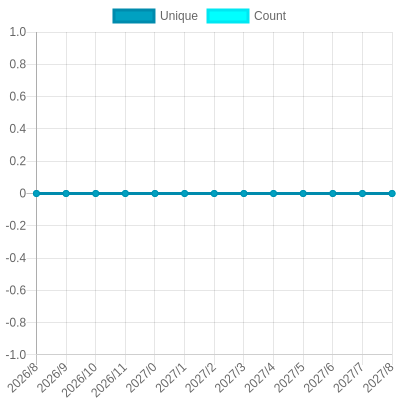
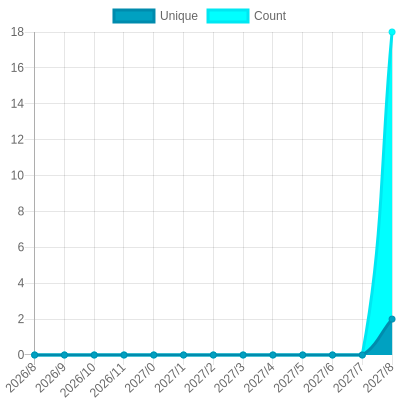
Update views

diff --git a/readme/1259419142/year.md b/readme/1259419142/year.md
@@ -23,10 +23,10 @@
 			<code>2026/9/1</code>
 		</td>
 		<td>
-			<code>0</code>
+			<code>2</code>
 		</td>
 		<td>
-			<code>0</code>
+			<code>18</code>
 		</td>
 	</tr>
 	<tr>
@@ -164,7 +164,7 @@
 </table>
 
 </details>
-<small><i>Last updated on 2026/9/3 3:51 AM UTC</i></small>
+<small><i>Last updated on 2026/9/3 10:57 AM UTC</i></small>
 
 ## ✂Copy and 📋 Paste
 ### SVG Badge

diff --git a/README.md b/README.md
@@ -37,7 +37,7 @@ The project created and maintained by [gayanvoice](https://github.com/gayanvoice
 	</tr>
 </table>
 
-<small><i>Last updated on 2026/9/3 3:51 AM UTC</i></small>
+<small><i>Last updated on 2026/9/3 10:58 AM UTC</i></small>
 
 ## ✂Copy and 📋 Paste
 ### Total Views Badge
